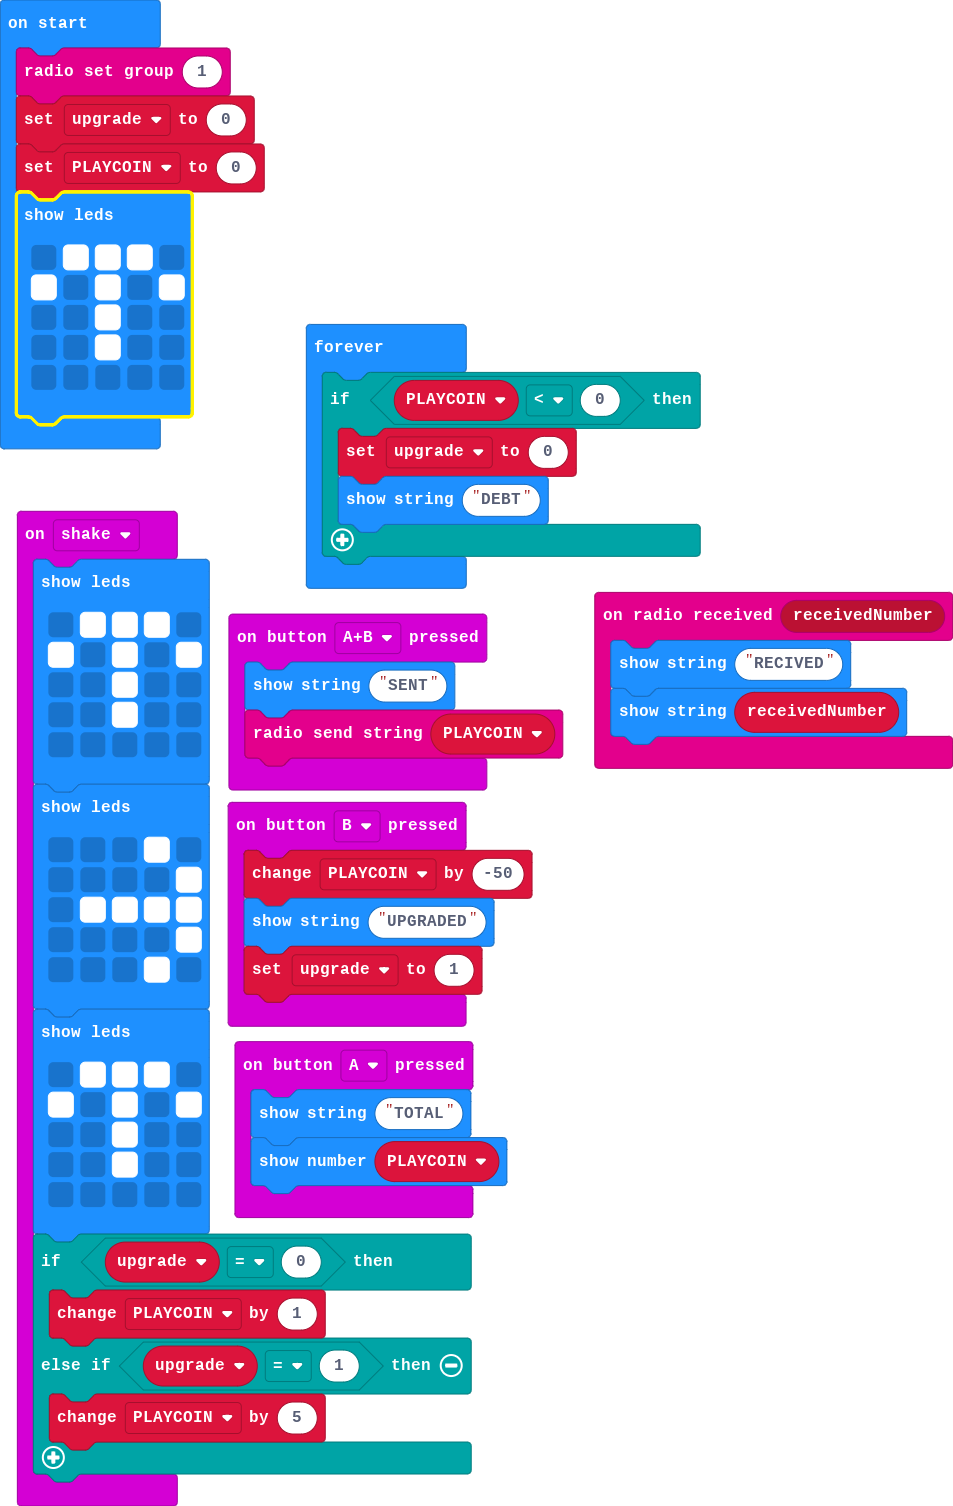
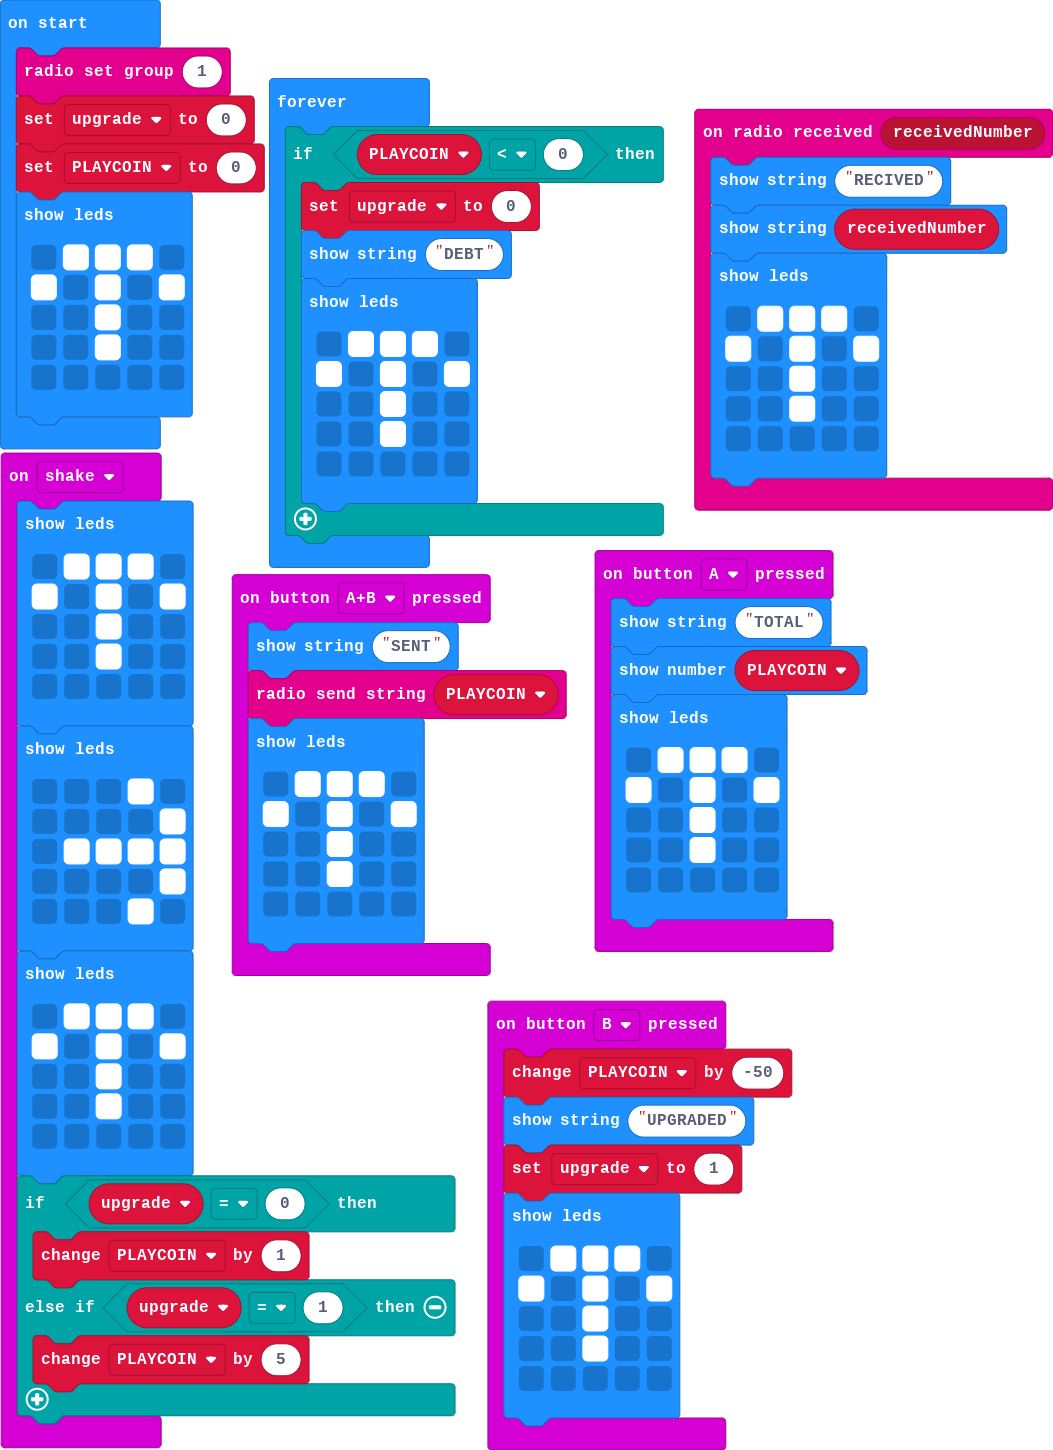
Update pxt.json, main.blocks, main.ts

diff --git a/main.ts b/main.ts
@@ -4,19 +4,47 @@ enum RadioMessage {
 radio.onReceivedNumber(function (receivedNumber) {
     basic.showString("RECIVED")
     basic.showString("" + (receivedNumber))
+    basic.showLeds(`
+        . # # # .
+        # . # . #
+        . . # . .
+        . . # . .
+        . . . . .
+        `)
 })
 input.onButtonPressed(Button.A, function () {
     basic.showString("TOTAL")
     basic.showNumber(PLAYCOIN)
+    basic.showLeds(`
+        . # # # .
+        # . # . #
+        . . # . .
+        . . # . .
+        . . . . .
+        `)
 })
 input.onButtonPressed(Button.AB, function () {
     basic.showString("SENT")
     radio.sendString("" + (PLAYCOIN))
+    basic.showLeds(`
+        . # # # .
+        # . # . #
+        . . # . .
+        . . # . .
+        . . . . .
+        `)
 })
 input.onButtonPressed(Button.B, function () {
     PLAYCOIN += -50
     basic.showString("UPGRADED")
     upgrade = 1
+    basic.showLeds(`
+        . # # # .
+        # . # . #
+        . . # . .
+        . . # . .
+        . . . . .
+        `)
 })
 input.onGesture(Gesture.Shake, function () {
     basic.showLeds(`
@@ -62,5 +90,12 @@ basic.forever(function () {
     if (PLAYCOIN < 0) {
         upgrade = 0
         basic.showString("DEBT")
+        basic.showLeds(`
+            . # # # .
+            # . # . #
+            . . # . .
+            . . # . .
+            . . . . .
+            `)
     }
 })
